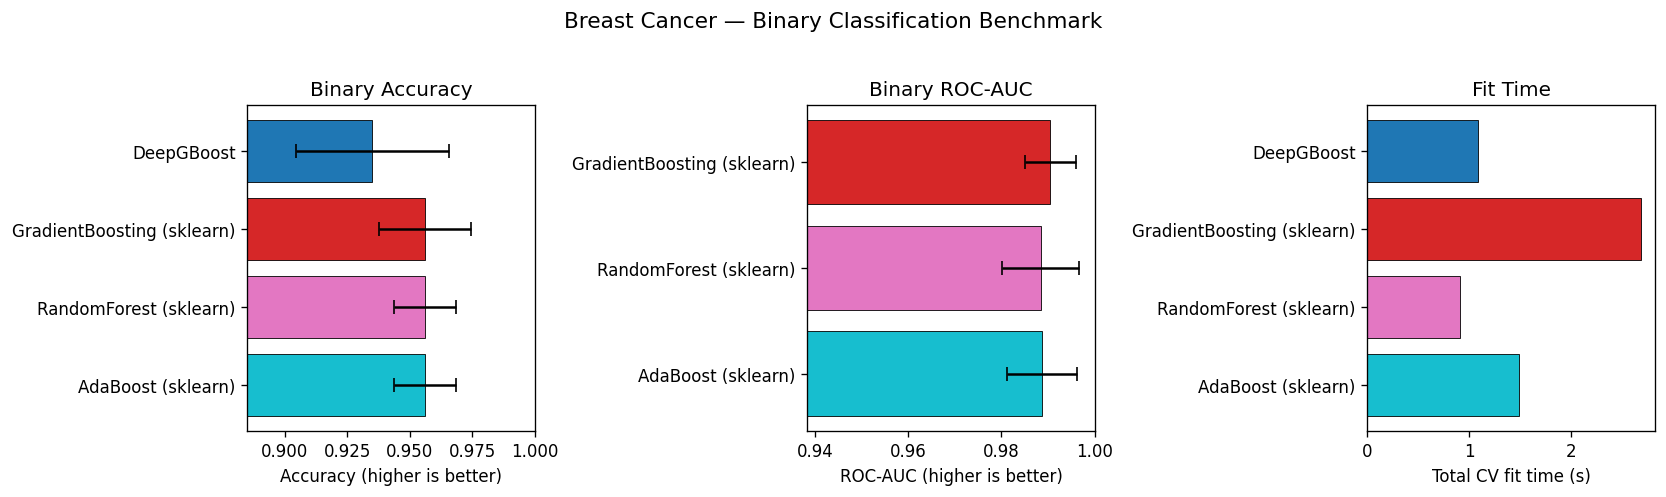
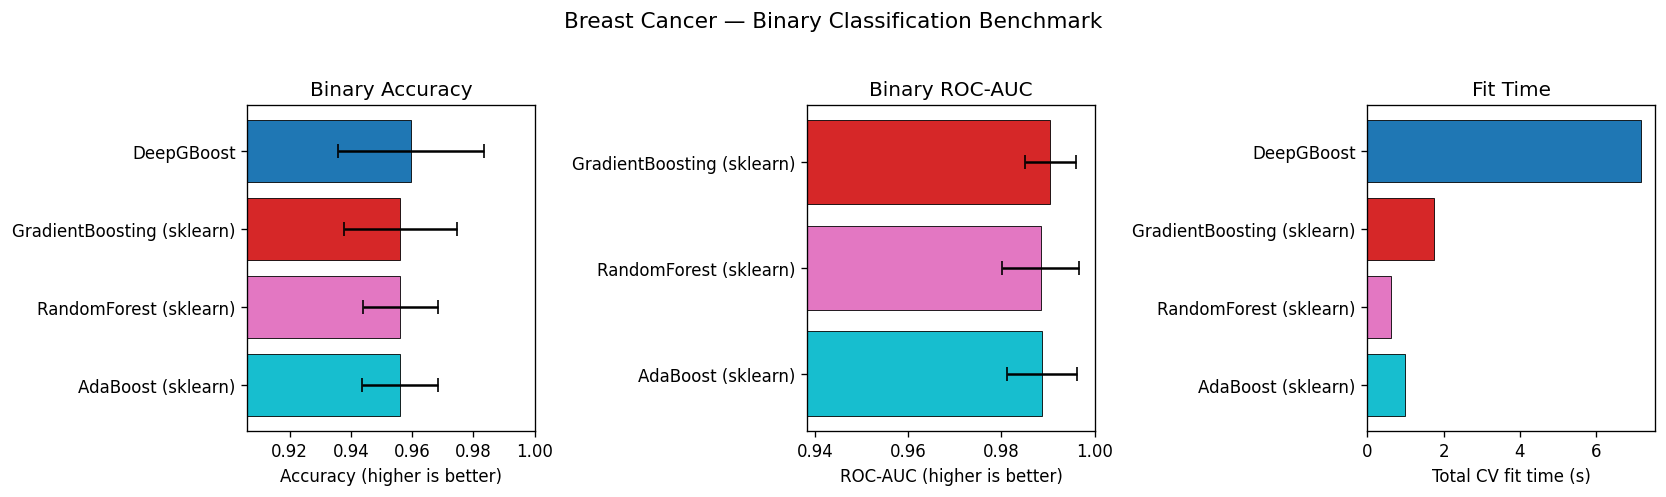
wip

Changed region(s): [[0.8115, 0.2414, 0.9988, 0.8451], [0.1873, 0.2414, 0.2809, 0.8451], [0.1561, 0.8753, 0.3433, 0.9356]]

diff --git a/README.md b/README.md
@@ -2,7 +2,7 @@
 
 Machine Learning algorithm based on gradient boosting forest that merges the power of tree ensembles with neural network architectures.
 
-![icon](./doc/icon.svg)
+<div align="center"><img src="./doc/icon.svg" width="80%"></div>
 
 ## Installation
 
@@ -63,14 +63,14 @@ $$F_i(x) = \sum_{l=1}^{L} RF_l(x) = \frac{1}{T} \sum_{l=0}^{L} \sum_{t=0}^{T} h_
 where *L* is the number of boosting layers and *T* is the number of trees per layer. This structure is a direct analogue of a **Dense Neural Network**, where each RandomForest layer corresponds to a network layer, with distributed gradients replacing back-propagation.
 
 
-![Fig 1](doc/fig1.png) 
+<div align="center"><img src="doc/fig1.png" width="80%"></div>
 
 **Fig. 1** — **NeuralNetwork vs DGBF architecture**: In NN (left), each neuron's output feeds into the next layer via back-propagation. In DGBF (right), the distributed gradients of all trees from each layer are forwarded to every tree of the following layer.
 
 Both RandomForest and GradientBoosting emerge naturally as special cases of DGBF: RandomForest is recovered with a single layer (*L* = 1) and GradientBoosting with a single tree per layer (*T* = 1).
 
 
-![Fig 2](doc/fig2.png)
+<div align="center"><img src="doc/fig2.png" width="80%"></div>
 
 
 **Fig. 2** — **RandomForest & GradientBoosting as DGBF special cases**:RandomForest (left) and GradientBoosting (right) represented as particular graph architectures of DGBF.
@@ -81,7 +81,7 @@ DGBF was evaluated against RandomForest (RF) and GradientBoosting (GBDT) on 9 re
 
 **DGBF surpasses the mean R² score of both GradientBoosting and RandomForest in 7 out of 9 datasets**
 
-![Benchmark](doc/benchmark.png)
+<div align="center"><img src="doc/benchmark.png" width="80%"></div>
 
 ## Citation
 

diff --git a/benchmark/results.md b/benchmark/results.md
@@ -1,0 +1,46 @@
+# DeepGBoost Benchmark Results
+
+All scores are 5-fold cross-validation means ± std.
+
+## Environment
+
+- Python 3.13.5chr(10)- deepgboost==0.1.0chr(10)- scikit-learn==1.8.0chr(10)- numpy==2.4.4
+
+---
+
+## 1. Regression — California Housing
+
+| Model | Fit time (s) | RMSE (mean) | RMSE (std) | R2 (mean) | R2 (std) |
+| --- | --- | --- | --- | --- | --- |
+| DeepGBoost | 368.83 | 0.616 | 0.0094 | 0.7149 | 0.0084 |
+| GradientBoosting (sklearn) | 18.71 | 0.5036 | 0.0114 | 0.8094 | 0.0088 |
+| RandomForest (sklearn) | 22.57 | 0.5753 | 0.013 | 0.7513 | 0.0109 |
+| AdaBoost (sklearn) | 13.15 | 0.754 | 0.0089 | 0.5728 | 0.0116 |
+
+![Regression benchmark](regression_benchmark.png)
+
+---
+
+## 2. Binary Classification — Breast Cancer
+
+| Model | Fit time (s) | Accuracy (mean) | Accuracy (std) | ROC-AUC (mean) | ROC-AUC (std) |
+| --- | --- | --- | --- | --- | --- |
+| DeepGBoost | 7.19 | 0.9596 | 0.0239 | nan | nan |
+| GradientBoosting (sklearn) | 1.76 | 0.9561 | 0.0184 | 0.9905 | 0.0055 |
+| RandomForest (sklearn) | 0.63 | 0.9561 | 0.0123 | 0.9884 | 0.0083 |
+| AdaBoost (sklearn) | 0.99 | 0.9561 | 0.0124 | 0.9887 | 0.0075 |
+
+![Binary classification benchmark](binary_classification_benchmark.png)
+
+---
+
+## 3. Multiclass Classification — Iris
+
+| Model | Fit time (s) | Accuracy (mean) | Accuracy (std) | ROC-AUC (mean) | ROC-AUC (std) |
+| --- | --- | --- | --- | --- | --- |
+| DeepGBoost | 2.56 | 0.96 | 0.0389 | nan | nan |
+| GradientBoosting (sklearn) | 0.72 | 0.9533 | 0.034 | 0.9927 | 0.008 |
+| RandomForest (sklearn) | 0.44 | 0.9467 | 0.0267 | 0.994 | 0.008 |
+| AdaBoost (sklearn) | 0.47 | 0.96 | 0.0389 | 0.9923 | 0.0066 |
+
+![Multiclass classification benchmark](multiclass_classification_benchmark.png)
